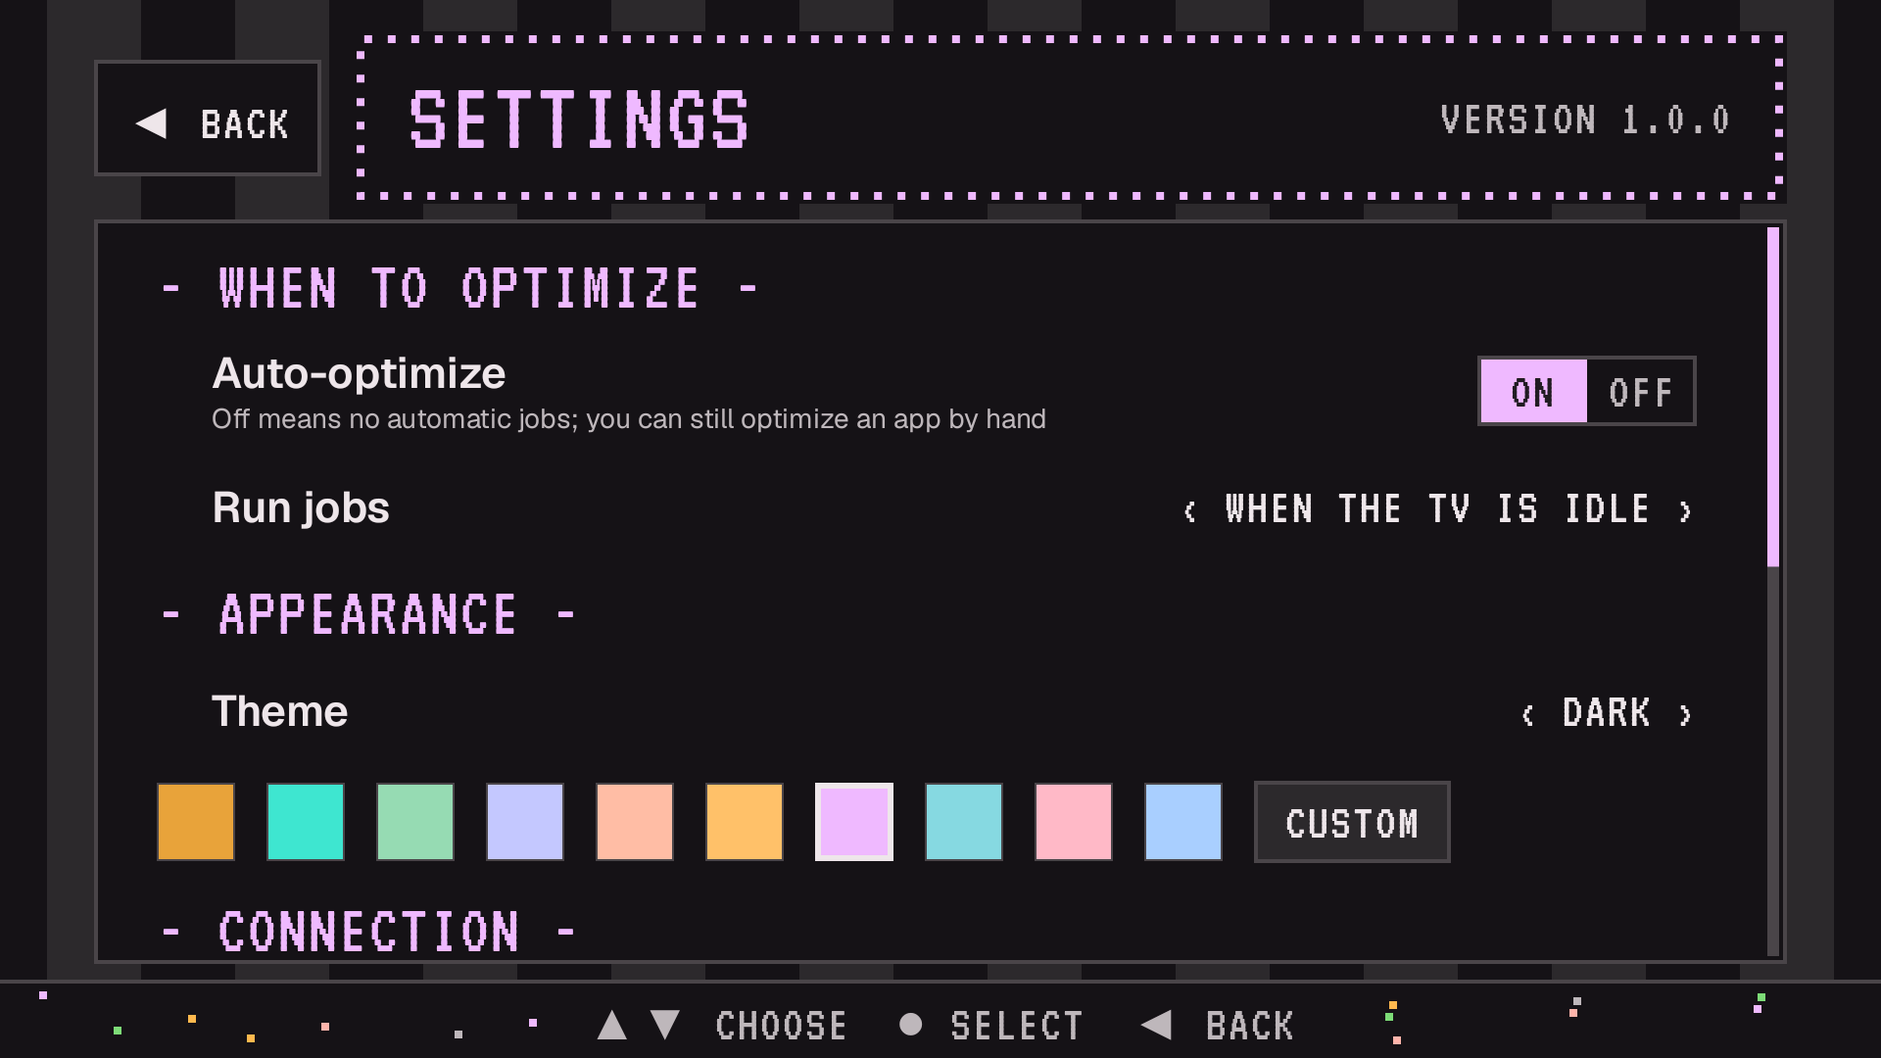
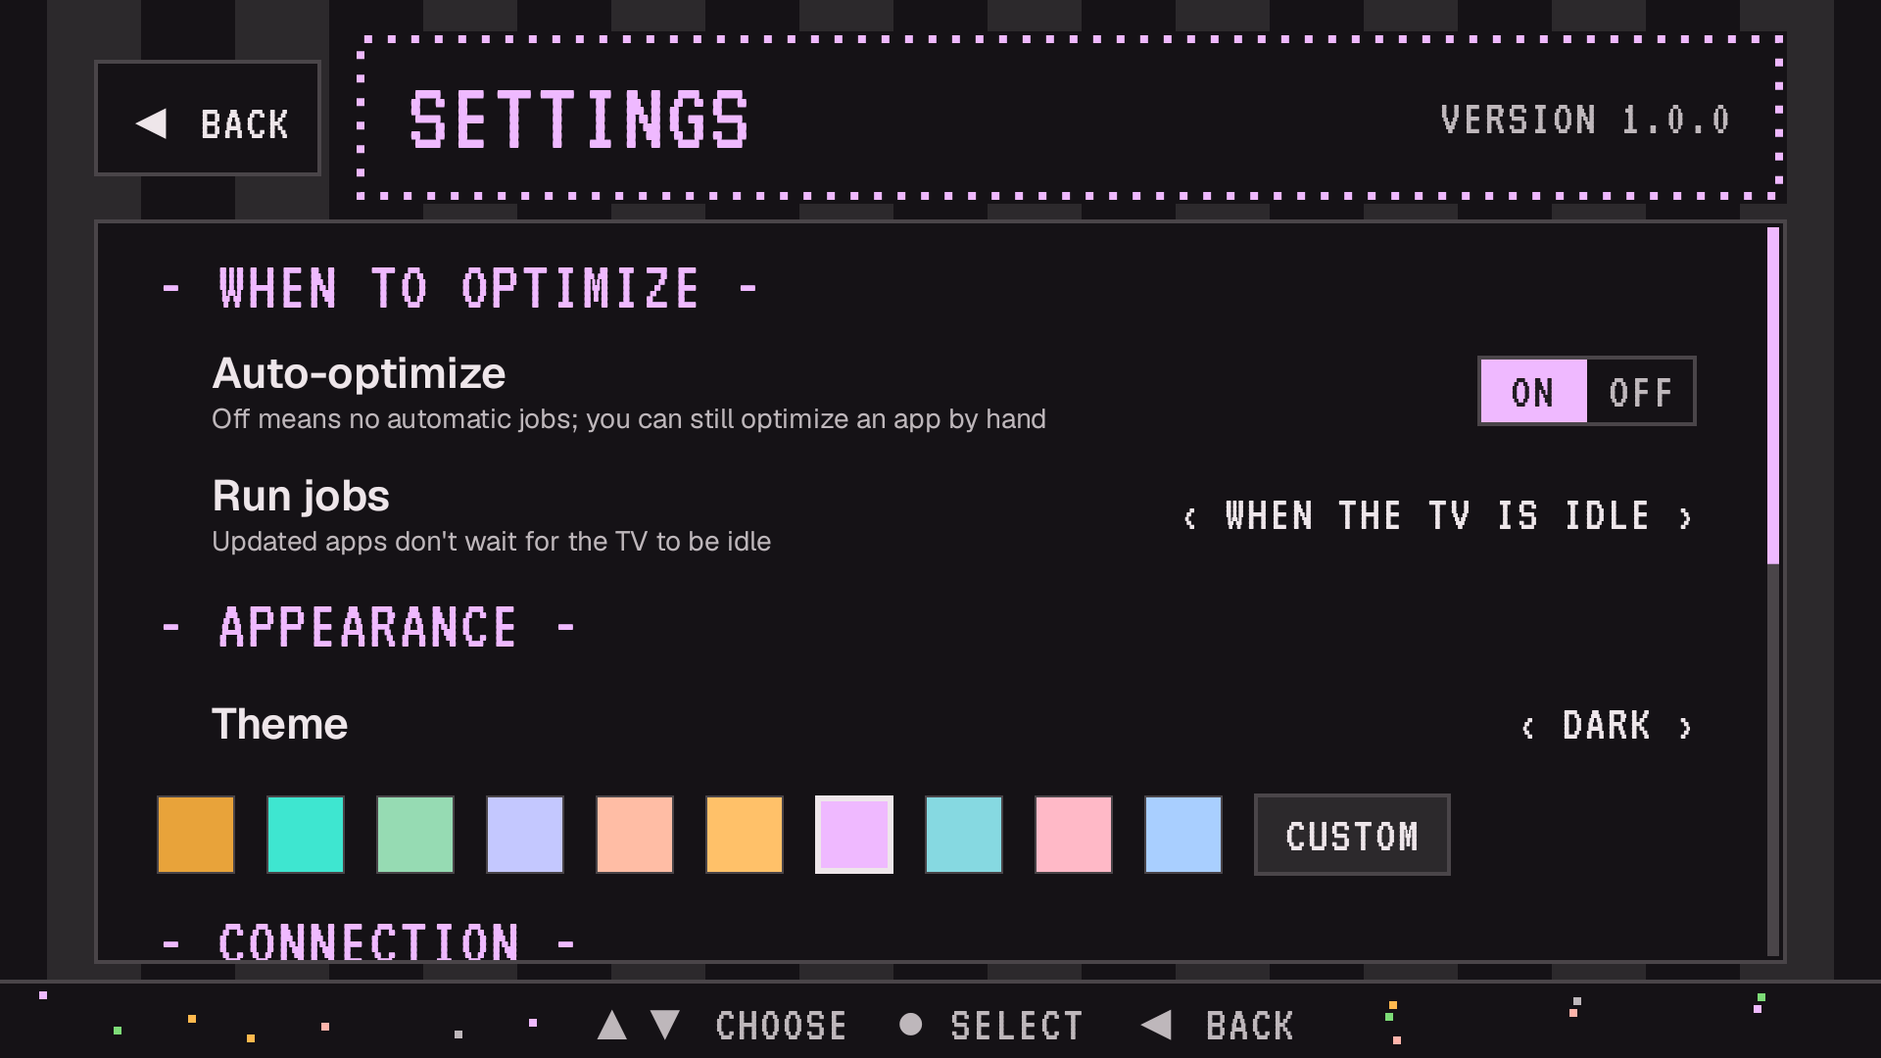
Compile a watched app seconds after its update, even with the screen on
Sideloaded apps install at verify, and users usually open them right after
updating. Before, an update was found by the 30-min detect, waited a 5-min
debounce and then (default Idle mode) waited for the screen to turn off, so the
evening after each update ran uncompiled.

- The :watch service hears ACTION_PACKAGE_ADDED and the main process starts a
  detect 5 s later, for watched auto-optimized apps only (APPEND_OR_REPLACE).
- Detected changes queue as QueueSource.UPDATE: no 5-min debounce, and the gate
  skips only the idle wait (playback, pause/Manual and set hours still hold).
  A waiting AUTO row is promoted; MANUAL rows stay. Home shows it as in queue.
- Settings "Run jobs" subtitle, README and CHANGELOG say so.

Checked: Android 14 and 12 emulators, NuvioTV 1.1.0 updated to 1.2.0-beta.2
with the screen on: speed-profile/cmdline 10-14 s after the install started.

Claude-Session: https://claude.ai/code/session_01VM9Lhv7hEqpCXA8awUTGjB

diff --git a/app/src/test/kotlin/dev/speedcompiler/tv/WatchServiceTest.kt b/app/src/test/kotlin/dev/speedcompiler/tv/WatchServiceTest.kt
@@ -11,8 +11,13 @@ import androidx.test.core.app.ApplicationProvider
 import android.os.Looper
 import android.os.PowerManager
 import dev.speedcompiler.tv.watch.ACTION_IDLE_CHECK
+import dev.speedcompiler.tv.watch.ACTION_PACKAGE_UPDATED
 import dev.speedcompiler.tv.watch.ACTION_SAMPLE
+import dev.speedcompiler.tv.watch.EXTRA_PACKAGE
+import androidx.work.WorkManager
+import androidx.work.testing.WorkManagerTestInitHelper
 import dev.speedcompiler.tv.watch.WakeReceiver
+import dev.speedcompiler.tv.watch.WatchedApp
 import dev.speedcompiler.tv.watch.WatchService
 import java.time.Duration
 import kotlinx.coroutines.CompletableDeferred
@@ -72,6 +77,47 @@ class WatchServiceTest {
         shadowOf(ctx.getSystemService(PowerManager::class.java)).turnScreenOn(false)
         shadowOf(Looper.getMainLooper()).idleFor(Duration.ofMinutes(2))
         assertEquals(2, app.broadcastIntents.count { it.action == ACTION_SAMPLE }) // no ticks with the screen off
+        watch.destroy()
+    }
+
+    private fun detectWork() = WorkManager.getInstance(ctx).getWorkInfosForUniqueWork("detect-update:com.example.app").get()
+
+    /** A real ADDED broadcast reaches [WakeReceiver] as PACKAGE_UPDATED; returns once the receiver ran. */
+    private fun installBroadcast(watched: Boolean) = runBlocking {
+        val app = shadowOf(ctx as android.app.Application)
+        WorkManagerTestInitHelper.initializeTestWorkManager(ctx)
+        if (watched) (ctx as SpeedApp).graph.database.watchedApps().upsert(WatchedApp("com.example.app", "1"))
+        val watch = Robolectric.buildService(WatchService::class.java).create()
+        ctx.sendBroadcast(Intent(Intent.ACTION_PACKAGE_ADDED, android.net.Uri.parse("package:com.example.app")))
+        shadowOf(Looper.getMainLooper()).idle()
+        val fwd = app.broadcastIntents.single { it.action == ACTION_PACKAGE_UPDATED }
+        assertEquals(WakeReceiver::class.java.name, fwd.component!!.className)
+        assertEquals("com.example.app", fwd.getStringExtra(EXTRA_PACKAGE))
+        val wake = WakeReceiver().also { ctx.registerReceiver(it, IntentFilter(ACTION_PACKAGE_UPDATED), Context.RECEIVER_NOT_EXPORTED) }
+        ctx.sendBroadcast(Intent(ACTION_PACKAGE_UPDATED).setClass(ctx, WakeReceiver::class.java).putExtra(EXTRA_PACKAGE, "com.example.app"))
+        shadowOf(Looper.getMainLooper()).idle()
+        withTimeout(2_000) { while (watched && detectWork().isEmpty()) delay(10) }
+        delay(300) // an unwatched app must stay without work, so give a wrong enqueue time to show
+        ctx.unregisterReceiver(wake)
+        watch.destroy()
+    }
+
+    @Test fun anInstallOfAWatchedAppQueuesADetect() {
+        installBroadcast(watched = true)
+        assertEquals(1, detectWork().size)
+    }
+
+    @Test fun anInstallOfAnUnwatchedAppQueuesNothing() {
+        installBroadcast(watched = false)
+        assertTrue(detectWork().isEmpty())
+    }
+
+    @Test fun aReplacedBroadcastAloneDoesNothing() {
+        val app = shadowOf(ctx as android.app.Application)
+        val watch = Robolectric.buildService(WatchService::class.java).create()
+        ctx.sendBroadcast(Intent(Intent.ACTION_PACKAGE_REPLACED, android.net.Uri.parse("package:com.example.app")))
+        shadowOf(Looper.getMainLooper()).idle()
+        assertTrue(app.broadcastIntents.none { it.action == ACTION_PACKAGE_UPDATED })
         watch.destroy()
     }
 

diff --git a/app/src/main/kotlin/dev/speedcompiler/tv/watch/Components.kt b/app/src/main/kotlin/dev/speedcompiler/tv/watch/Components.kt
@@ -37,6 +37,13 @@ class WakeReceiver : BroadcastReceiver() {
     override fun onReceive(context: Context, intent: Intent) {
         when (intent.action) {
             ACTION_IDLE_CHECK -> enqueueOpenGatesCheck(context)
+            ACTION_PACKAGE_UPDATED -> intent.getStringExtra(EXTRA_PACKAGE)?.let { pkg ->
+                val app = context.applicationContext as SpeedApp
+                val done = goAsync()
+                app.graph.appScope.launch {
+                    try { if (app.graph.database.watchedApps().get(pkg)?.autoOptimize == true) enqueueDetectForUpdate(context, pkg) } finally { done.finish() }
+                }
+            }
             ACTION_SAMPLE -> {
                 val app = context.applicationContext as SpeedApp
                 val done = goAsync()
@@ -48,17 +55,28 @@ class WakeReceiver : BroadcastReceiver() {
 
 const val ACTION_IDLE_CHECK = "dev.speedcompiler.tv.action.IDLE_CHECK"
 const val ACTION_SAMPLE = "dev.speedcompiler.tv.action.SAMPLE"
+const val ACTION_PACKAGE_UPDATED = "dev.speedcompiler.tv.action.PACKAGE_UPDATED"
+const val EXTRA_PACKAGE = "package"
 
 private fun wakeIntent(context: Context, action: String) = Intent(action).setClass(context, WakeReceiver::class.java)
+
+/** An install or update of any app (the system sends ADDED, with EXTRA_REPLACING, for both); registered at runtime by [WatchService], since the manifest cannot declare it. Forwards the package name. */
+class PackageUpdateReceiver : BroadcastReceiver() {
+    override fun onReceive(context: Context, intent: Intent) {
+        val pkg = intent.data?.schemeSpecificPart ?: return
+        context.sendBroadcast(wakeIntent(context, ACTION_PACKAGE_UPDATED).putExtra(EXTRA_PACKAGE, pkg))
+    }
+}
 
 /**
  * Keeps a small process (":watch", no UI, no GPU memory) uncached. Android holds ACTION_SCREEN_OFF back from a cached app until
  * it is active again, and freezes it 10 s after it goes cached (as on the test TV). A foreground service is the one supported way
  * to stay uncached, but it also keeps a process's GPU memory (~64 MB on the test TV) forever, so it runs apart from the UI and
- * only forwards screen-off and a once-a-minute sampling tick (screen on only) to [WakeReceiver].
+ * only forwards screen-off, package installs and a once-a-minute sampling tick (screen on only) to [WakeReceiver].
  */
 class WatchService : Service() {
     private val screenOff = ScreenOffReceiver()
+    private val packageUpdate = PackageUpdateReceiver()
     private val handler = Handler(Looper.getMainLooper())
     private val tick = object : Runnable {
         override fun run() {
@@ -73,6 +91,7 @@ class WatchService : Service() {
         super.onCreate()
         // System-only broadcasts, so no export flag is needed.
         registerReceiver(screenOff, IntentFilter(Intent.ACTION_SCREEN_OFF).apply { addAction(Intent.ACTION_DREAMING_STARTED) })
+        registerReceiver(packageUpdate, IntentFilter(Intent.ACTION_PACKAGE_ADDED).apply { addDataScheme("package") })
         handler.postDelayed(tick, 60_000)
     }
 
@@ -90,6 +109,7 @@ class WatchService : Service() {
     override fun onDestroy() {
         handler.removeCallbacks(tick)
         unregisterReceiver(screenOff)
+        unregisterReceiver(packageUpdate)
         super.onDestroy()
     }
 

diff --git a/app/src/main/kotlin/dev/speedcompiler/tv/watch/Jobs.kt b/app/src/main/kotlin/dev/speedcompiler/tv/watch/Jobs.kt
@@ -44,6 +44,7 @@ private const val VERIFY_WORK = "verify"
 private const val RETRY_WORK = "retry"
 private const val OPEN_GATES_WORK = "open-gates"
 private const val OPEN_GATES_SETTLE_SECONDS = 5L
+private const val UPDATE_SETTLE_SECONDS = 5L // lets a batch of installs land in one pass
 private const val KEY_BUILD = "build_fingerprint"
 private const val KEY_PACKAGE = "package"
 private const val RETRY_DELAY_HOURS = 6L
@@ -79,6 +80,14 @@ fun enqueueDetectNow(context: Context) {
         .enqueueUniqueWork("$DETECT_WORK-once", ExistingWorkPolicy.KEEP, OneTimeWorkRequestBuilder<DetectWorker>().build())
 }
 
+/** A package was installed or updated: detect in a few seconds, so a watched app is queued right away. */
+fun enqueueDetectForUpdate(context: Context, packageName: String) {
+    WorkManager.getInstance(context).enqueueUniqueWork(
+        "detect-update:$packageName", ExistingWorkPolicy.APPEND_OR_REPLACE, // never REPLACE: it would cancel a running detect
+        OneTimeWorkRequestBuilder<DetectWorker>().setInitialDelay(UPDATE_SETTLE_SECONDS, TimeUnit.SECONDS).build(),
+    )
+}
+
 /**
  * Screen off or screensaver start: check the gates in a few seconds. The delay lets dumpsys power report the new
  * wakefulness; going through WorkManager keeps the process alive until the check ran.
@@ -109,7 +118,7 @@ suspend fun runDetect(g: AppGraph) {
     val watched = g.database.watchedApps()
     ChangeDetector(g.packageSystem, g.database.syncState()) { watched.list().filter { it.autoOptimize } }
         .detect { changed -> // the stored position advances only after these are persisted
-            changed.filter { it in installed }.forEach { g.scheduler.enqueue(it, QueueSource.AUTO) }
+            changed.filter { it in installed }.forEach { g.scheduler.enqueue(it, QueueSource.UPDATE) }
         }
 }
 
@@ -176,7 +185,7 @@ suspend fun restartOpenedGates(g: AppGraph, installed: Set<String> = g.packageSy
     for (item in g.database.queue().activeNow()) {
         // A row waiting for the app's first launch has its own hourly try; restarting it here would compile every 30 min.
         if (item.packageName in installed && item.state == QueueState.WAITING_GATE && item.failureReason != NO_PROFILE_YET &&
-            g.gate.status(ignorePause = item.source == QueueSource.MANUAL) == GateStatus.Open
+            g.gate.status(ignorePause = item.source == QueueSource.MANUAL, ignoreIdle = item.source == QueueSource.UPDATE) == GateStatus.Open
         ) {
             g.scheduler.enqueue(item.packageName, item.source)
         }
@@ -366,7 +375,7 @@ class OptimizeWorker(context: Context, params: WorkerParameters) : CoroutineWork
         }
         if (!item.runNow) {
             // Checked after taking the lock: the window may have closed while this job waited its turn.
-            val gate = g.gate.status(ignorePause = item.source == QueueSource.MANUAL)
+            val gate = g.gate.status(ignorePause = item.source == QueueSource.MANUAL, ignoreIdle = item.source == QueueSource.UPDATE)
             if (gate != GateStatus.Open) {
                 dao.update(item.copy(state = QueueState.WAITING_GATE, failureReason = gate::class.simpleName))
                 return Result.retry() // never re-enqueue under the same name: that would cancel this worker

diff --git a/app/src/test/kotlin/dev/speedcompiler/tv/SchedulingTest.kt b/app/src/test/kotlin/dev/speedcompiler/tv/SchedulingTest.kt
@@ -153,7 +153,43 @@ class SchedulingTest {
         g.database.watchedApps().upsert(WatchedApp("b", "1"))
         runDetect(g)
         assertEquals(listOf("a"), g.database.queue().activeNow().map { it.packageName })
-        assertEquals(QueueSource.AUTO, g.database.queue().get(1)!!.source)
+        assertEquals(QueueSource.UPDATE, g.database.queue().get(1)!!.source)
+    }
+
+    @Test fun anUpdateRowCompilesWhileTheScreenIsOn() = runBlocking {
+        gate.status = GateStatus.WaitingForIdle
+        g.scheduler.enqueue("a", QueueSource.UPDATE)
+        assertEquals(0L, infos("a").single().initialDelayMillis) // no debounce
+        driver.setAllConstraintsMet(infos("a").single().id)
+        await("done") { state(1) == QueueState.DONE }
+        assertEquals(listOf("a"), optimizer.optimized)
+    }
+
+    @Test fun anAutoRowStillWaitsForIdleAndKeepsTheDebounce() = runBlocking {
+        gate.status = GateStatus.WaitingForIdle
+        g.scheduler.enqueue("a", QueueSource.AUTO)
+        assertEquals(5 * 60_000L, infos("a").single().initialDelayMillis)
+        skipDelay("a")
+        await("waiting") { state(1) == QueueState.WAITING_GATE }
+        assertTrue(optimizer.optimized.isEmpty())
+    }
+
+    @Test fun anUpdatePromotesAWaitingAutoRow() = runBlocking {
+        gate.status = GateStatus.WaitingForIdle
+        g.scheduler.enqueue("a", QueueSource.AUTO)
+        g.scheduler.enqueue("a", QueueSource.UPDATE)
+        assertEquals(QueueSource.UPDATE, g.database.queue().get(1)!!.source)
+        assertEquals(1, g.database.queue().activeNow().size)
+        assertEquals(0L, infos("a").last { !it.state.isFinished }.initialDelayMillis)
+    }
+
+    @Test fun anUpdateRowWaitsWhileSomethingPlays() = runBlocking {
+        gate.status = GateStatus.WaitingForPlayback
+        g.scheduler.enqueue("a", QueueSource.UPDATE)
+        driver.setAllConstraintsMet(infos("a").single().id)
+        await("waiting") { state(1) == QueueState.WAITING_GATE }
+        assertEquals("WaitingForPlayback", g.database.queue().get(1)!!.failureReason)
+        assertTrue(optimizer.optimized.isEmpty())
     }
 
     @Test fun aWaitRetriesAfterTheBackoff() = runBlocking {

diff --git a/app/src/main/kotlin/dev/speedcompiler/tv/watch/WorkScheduler.kt b/app/src/main/kotlin/dev/speedcompiler/tv/watch/WorkScheduler.kt
@@ -113,7 +113,11 @@ class WorkScheduler(private val context: Context, private val graph: AppGraph) :
         if (existing != null && (existing.state == QueueState.RUNNING || existing.runNow)) return
         // The row says RUNNING only once the worker holds runLock; REPLACE on a started worker could cancel its compile.
         if (existing != null && work.getWorkInfosForUniqueWorkFlow(workName(packageName)).first().any { it.state == WorkInfo.State.RUNNING }) return
-        schedule(existing ?: insert(packageName, source, runNow = false), debounce = existing?.state != QueueState.WAITING_GATE)
+        // An update promotes a waiting AUTO row, so it skips the idle wait and the debounce too. MANUAL rows stay as they are.
+        val row = if (existing != null && source == QueueSource.UPDATE && existing.source == QueueSource.AUTO) {
+            existing.copy(source = QueueSource.UPDATE).also { queueDao.update(it) }
+        } else existing
+        schedule(row ?: insert(packageName, source, runNow = false), debounce = existing?.state != QueueState.WAITING_GATE)
     }
 
     override suspend fun optimizeNow(packageName: String) = lock.withLock { doOptimizeNow(packageName) }
@@ -162,7 +166,7 @@ class WorkScheduler(private val context: Context, private val graph: AppGraph) :
         if (item.runNow) request.setExpedited(OutOfQuotaPolicy.RUN_AS_NON_EXPEDITED_WORK_REQUEST) // not held by low storage: runs or fails with a reason
         else {
             request.setConstraints(Constraints.Builder().setRequiresStorageNotLow(true).build())
-            if (debounce) request.setInitialDelay(DEBOUNCE_MINUTES, TimeUnit.MINUTES)
+            if (debounce && item.source != QueueSource.UPDATE) request.setInitialDelay(DEBOUNCE_MINUTES, TimeUnit.MINUTES)
         }
         work.enqueueUniqueWork(workName(item.packageName), ExistingWorkPolicy.REPLACE, request.build())
     }

diff --git a/app/src/test/kotlin/dev/speedcompiler/tv/engine/GateImplTest.kt b/app/src/test/kotlin/dev/speedcompiler/tv/engine/GateImplTest.kt
@@ -37,6 +37,22 @@ class GateImplTest {
     }
 
     @Test
+    fun ignoreIdleOpensOnlyTheIdleWait() = runBlocking {
+        val clock = FakeClock(millisAt("2026-01-01T12:00:00Z"))
+        val signals = Signals(wake = Wakefulness.Awake)
+        val g = gate(clock, signals, GateMode.Idle)
+        assertEquals(GateStatus.WaitingForIdle, g.status())
+        assertEquals(GateStatus.Open, g.status(ignoreIdle = true))
+        signals.music = true
+        assertEquals(GateStatus.WaitingForPlayback, g.status(ignoreIdle = true))
+        assertEquals(GateStatus.Paused, gate(clock, Signals(wake = Wakefulness.Awake), GateMode.Idle, paused = true).status(ignoreIdle = true))
+        assertEquals(
+            GateStatus.OpensAt(Instant.parse("2026-01-01T22:00:00Z")),
+            gate(clock, Signals(wake = Wakefulness.Awake), GateMode.Window).status(ignoreIdle = true),
+        )
+    }
+
+    @Test
     fun unknownScreenStateNeverBlocksIdleMode() = runBlocking {
         val g = gate(FakeClock(millisAt("2026-01-01T12:00:00Z")), Signals(wake = null), GateMode.Idle)
         assertEquals(GateStatus.Open, g.status())

diff --git a/app/src/main/kotlin/dev/speedcompiler/tv/engine/GateImpl.kt b/app/src/main/kotlin/dev/speedcompiler/tv/engine/GateImpl.kt
@@ -30,7 +30,7 @@ class GateImpl(
     private val configs: GateConfigProvider,
     private val zone: ZoneId = ZoneId.systemDefault(),
 ) : Gate {
-    override suspend fun status(ignorePause: Boolean): GateStatus {
+    override suspend fun status(ignorePause: Boolean, ignoreIdle: Boolean): GateStatus {
         val config = configs.config()
         val now = Instant.ofEpochMilli(clock.nowMillis()).atZone(zone)
         val decision = decide(
@@ -45,7 +45,7 @@ class GateImpl(
             GateDecision.Run -> GateStatus.Open
             is GateDecision.Wait -> when (val reason = decision.reason) {
                 WaitReason.Playback -> GateStatus.WaitingForPlayback
-                WaitReason.NotIdle -> GateStatus.WaitingForIdle
+                WaitReason.NotIdle -> if (ignoreIdle) GateStatus.Open else GateStatus.WaitingForIdle
                 WaitReason.Paused -> GateStatus.Paused
                 is WaitReason.OutsideWindow -> GateStatus.OpensAt(reason.opensAt)
             }

diff --git a/app/src/main/kotlin/dev/speedcompiler/tv/ui/settings/SettingsScreen.kt b/app/src/main/kotlin/dev/speedcompiler/tv/ui/settings/SettingsScreen.kt
@@ -132,7 +132,7 @@ fun SettingsScreen(go: (String) -> Unit, back: () -> Unit, deps: SettingsDeps = 
                 ) { on -> set { if (on) it.copy(mode = Mode.Auto, paused = false) else it.copy(paused = true) } }
                 val gates = GateMode.entries
                 OperatorRow(
-                    runJobs, hint(runJobs, gateLabel(v.gateMode)), onClick = { set { it.copy(gateMode = gates.cycle(it.gateMode, 1)) } },
+                    runJobs, hint(runJobs, gateLabel(v.gateMode)), sublabel = stringResource(R.string.settings_run_jobs_subtitle), onClick = { set { it.copy(gateMode = gates.cycle(it.gateMode, 1)) } },
                     onLeft = { set { it.copy(gateMode = gates.cycle(it.gateMode, -1)) } },
                     onRight = { set { it.copy(gateMode = gates.cycle(it.gateMode, 1)) } },
                 ) { Selector(gateLabel(v.gateMode), it) }

diff --git a/app/src/main/kotlin/dev/speedcompiler/tv/engine/Engine.kt b/app/src/main/kotlin/dev/speedcompiler/tv/engine/Engine.kt
@@ -41,8 +41,11 @@ sealed interface GateStatus {
 
 /** Decides whether optimizing is allowed right now (window, pause switch, device state). */
 interface Gate {
-    /** [ignorePause]: for jobs the user queued by hand, which wait for the window and device state but not the pause switch. */
-    suspend fun status(ignorePause: Boolean = false): GateStatus
+    /**
+     * [ignorePause]: for jobs the user queued by hand, which wait for the window and device state but not the pause switch.
+     * [ignoreIdle]: for update jobs, which run while the screen is on but still wait for playback, the pause switch and set hours.
+     */
+    suspend fun status(ignorePause: Boolean = false, ignoreIdle: Boolean = false): GateStatus
 }
 
 interface Clock {

diff --git a/app/src/test/kotlin/dev/speedcompiler/tv/QueueTest.kt b/app/src/test/kotlin/dev/speedcompiler/tv/QueueTest.kt
@@ -52,6 +52,14 @@ class QueueTest {
     }
 
     @Test
+    fun updateJobsSkipTheIdleWait() {
+        val update = item().copy(source = QueueSource.UPDATE)
+        assertEquals(Eta.InQueue(1, 120_000), etaFor(update, GateStatus.WaitingForIdle, 1))
+        assertEquals(Eta.WaitingForIdle, etaFor(item(), GateStatus.WaitingForIdle, 1))
+        assertEquals(Eta.WaitingForPlayback, etaFor(update, GateStatus.WaitingForPlayback, 1))
+    }
+
+    @Test
     fun setHoursGiveAStartTimeOffsetByJobsAhead() {
         assertEquals(Eta.StartsAt(opensAt.at), etaFor(item(), opensAt, 0))
         assertEquals(Eta.StartsAt(opensAt.at.plusSeconds(240)), etaFor(item(), opensAt, 2))

diff --git a/app/src/test/kotlin/dev/speedcompiler/tv/engine/FakeEngine.kt b/app/src/test/kotlin/dev/speedcompiler/tv/engine/FakeEngine.kt
@@ -21,7 +21,11 @@ class FakeOptimizer(var result: OptimizeResult = OptimizeResult(true)) : Optimiz
 }
 
 class FakeGate(var status: GateStatus = GateStatus.Open) : Gate {
-    override suspend fun status(ignorePause: Boolean) = if (ignorePause && status == GateStatus.Paused) GateStatus.Open else status
+    override suspend fun status(ignorePause: Boolean, ignoreIdle: Boolean) = when {
+        ignorePause && status == GateStatus.Paused -> GateStatus.Open
+        ignoreIdle && status == GateStatus.WaitingForIdle -> GateStatus.Open
+        else -> status
+    }
 }
 
 class FakeClock(var now: Long = 0L) : Clock {

diff --git a/app/src/main/kotlin/dev/speedcompiler/tv/ui/apps/AppDetailScreen.kt b/app/src/main/kotlin/dev/speedcompiler/tv/ui/apps/AppDetailScreen.kt
@@ -183,7 +183,7 @@ fun AppDetailContent(
             val ok = it.state == QueueState.DONE
             ScoreRow(
                 agoText(res, it.finishedAt ?: it.enqueuedAt, now),
-                res.getString(if (it.source == QueueSource.AUTO) R.string.detail_run_automatic else R.string.detail_run_manual),
+                res.getString(if (it.source != QueueSource.MANUAL) R.string.detail_run_automatic else R.string.detail_run_manual),
                 res.getString(if (ok) R.string.home_optimized else R.string.home_failed),
                 if (ok) Tone.Ok else Tone.Error,
             )
